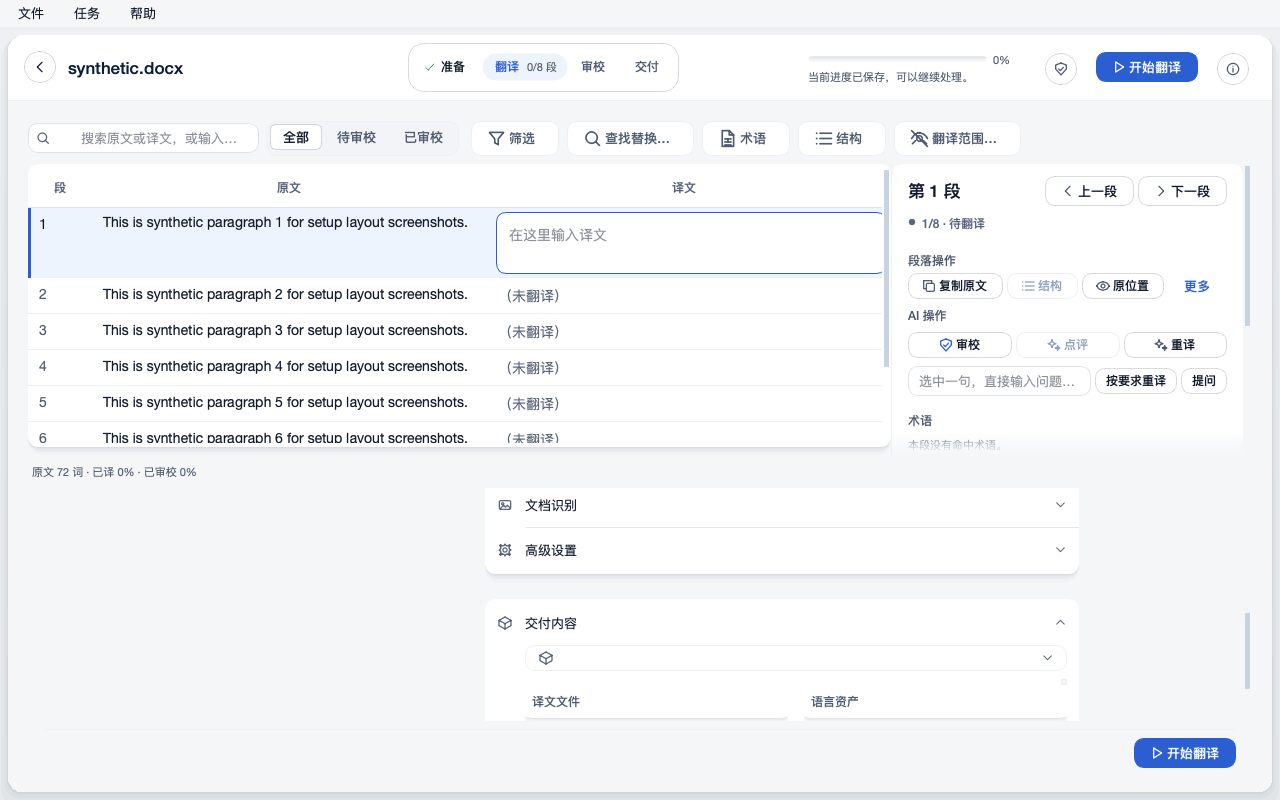
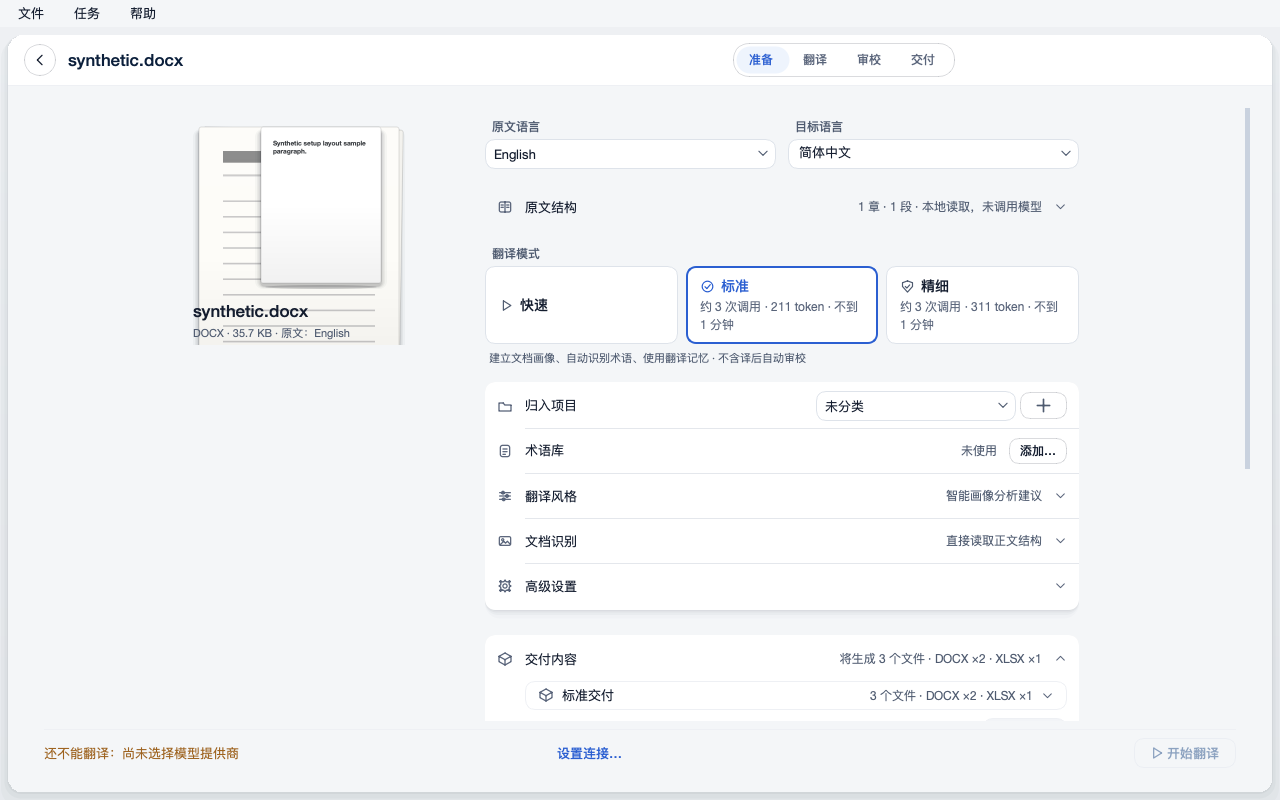
docs(0.8.6): (#578 C-28) rebuild full-page screenshots with a real setup entry

diff --git a/docs/evidence/0.8.6-c521-setup-summary.md b/docs/evidence/0.8.6-c521-setup-summary.md
@@ -37,7 +37,23 @@
 | [delivery-full-en-light.png](c521-setup/delivery-full-en-light.png) | 整页：交付页（英/亮） |
 | [delivery-full-en-dark.png](c521-setup/delivery-full-en-dark.png) | 整页：交付页（英/暗） |
 
-整页截图用合成的 8 段 DOCX 任务（临时数据目录）；交付页的摘要行以示例值「已冻结 v1 · 3 个文件 · DOCX ×2 · XLSX ×1」展示，只为证明位置与对齐，不来自用户真实文档。
+整页截图用合成的 1 段 DOCX 任务（临时数据目录，未开始翻译）；每个语言/主题用新 MainWindow，
+经真实入口 `open_job_and_wait` 进入准备页（断言 `setup_page` 可见、`translation_split` 不可见），
+避免出现两页叠加。交付页摘要行用「交付内容 · 尚未生成冻结交付」，与下方「尚未生成冻结交付」
+卡片一致，不造自相矛盾的冻结示例。C-28 后重拍的 8 张，每张证明什么：
+
+| 文件 | 这张证明了什么 |
+|---|---|
+| setup-full-zh-CN-light.png | 1280×800 准备页整页：只有准备页内容（无翻译工作台叠加）；共用摘要行显示「标准交付 · 3 个文件 · DOCX ×2 · XLSX ×1」 |
+| setup-full-zh-CN-dark.png | 同上，暗色主题：摘要行文字与卡片对比仍清晰 |
+| setup-full-en-light.png | 英文亮色：同一组件在英文界面里的位置与文案 |
+| setup-full-en-dark.png | 英文暗色：同上 |
+| delivery-full-zh-CN-light.png | 交付页整页：摘要行「交付内容 · 尚未生成冻结交付」与下方空交付卡片口径一致 |
+| delivery-full-zh-CN-dark.png | 同上，暗色主题 |
+| delivery-full-en-light.png | 英文交付页：共用摘要行在页头的位置 |
+| delivery-full-en-dark.png | 英文暗色交付页：同上 |
+
+共用行单件 4 张（summary-*.png）保留作像素级对照。
 
 ## 测试与变异检查
 
